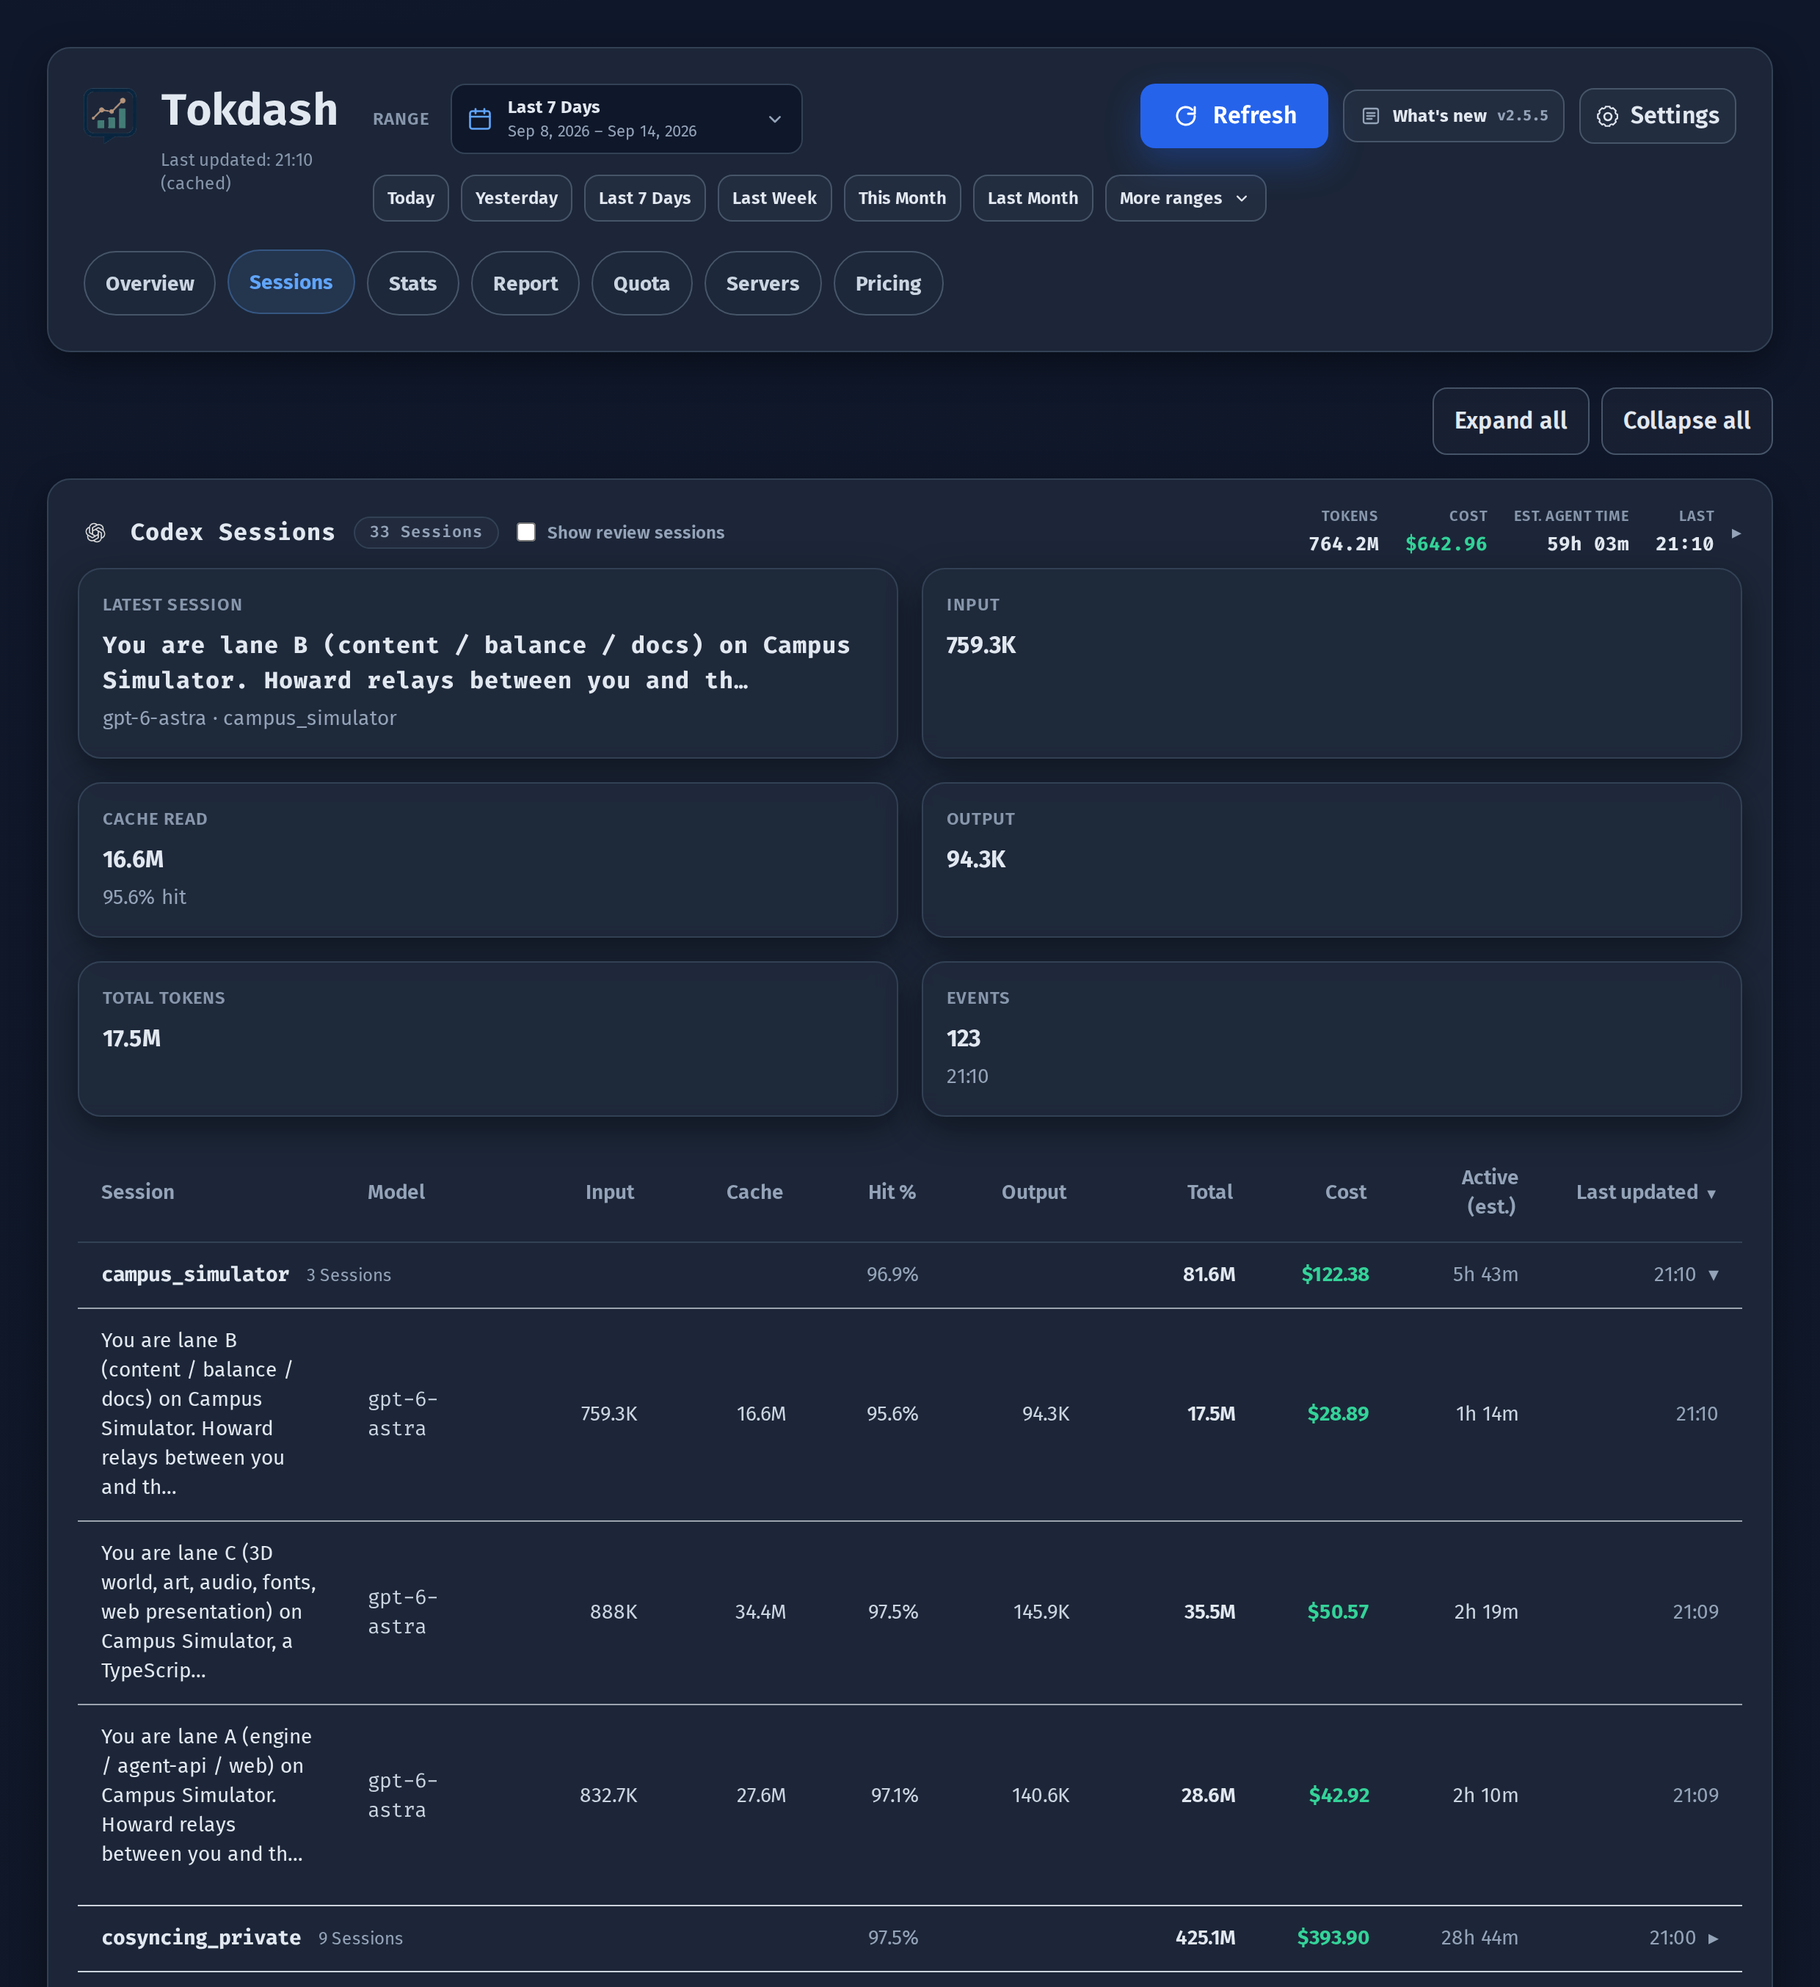
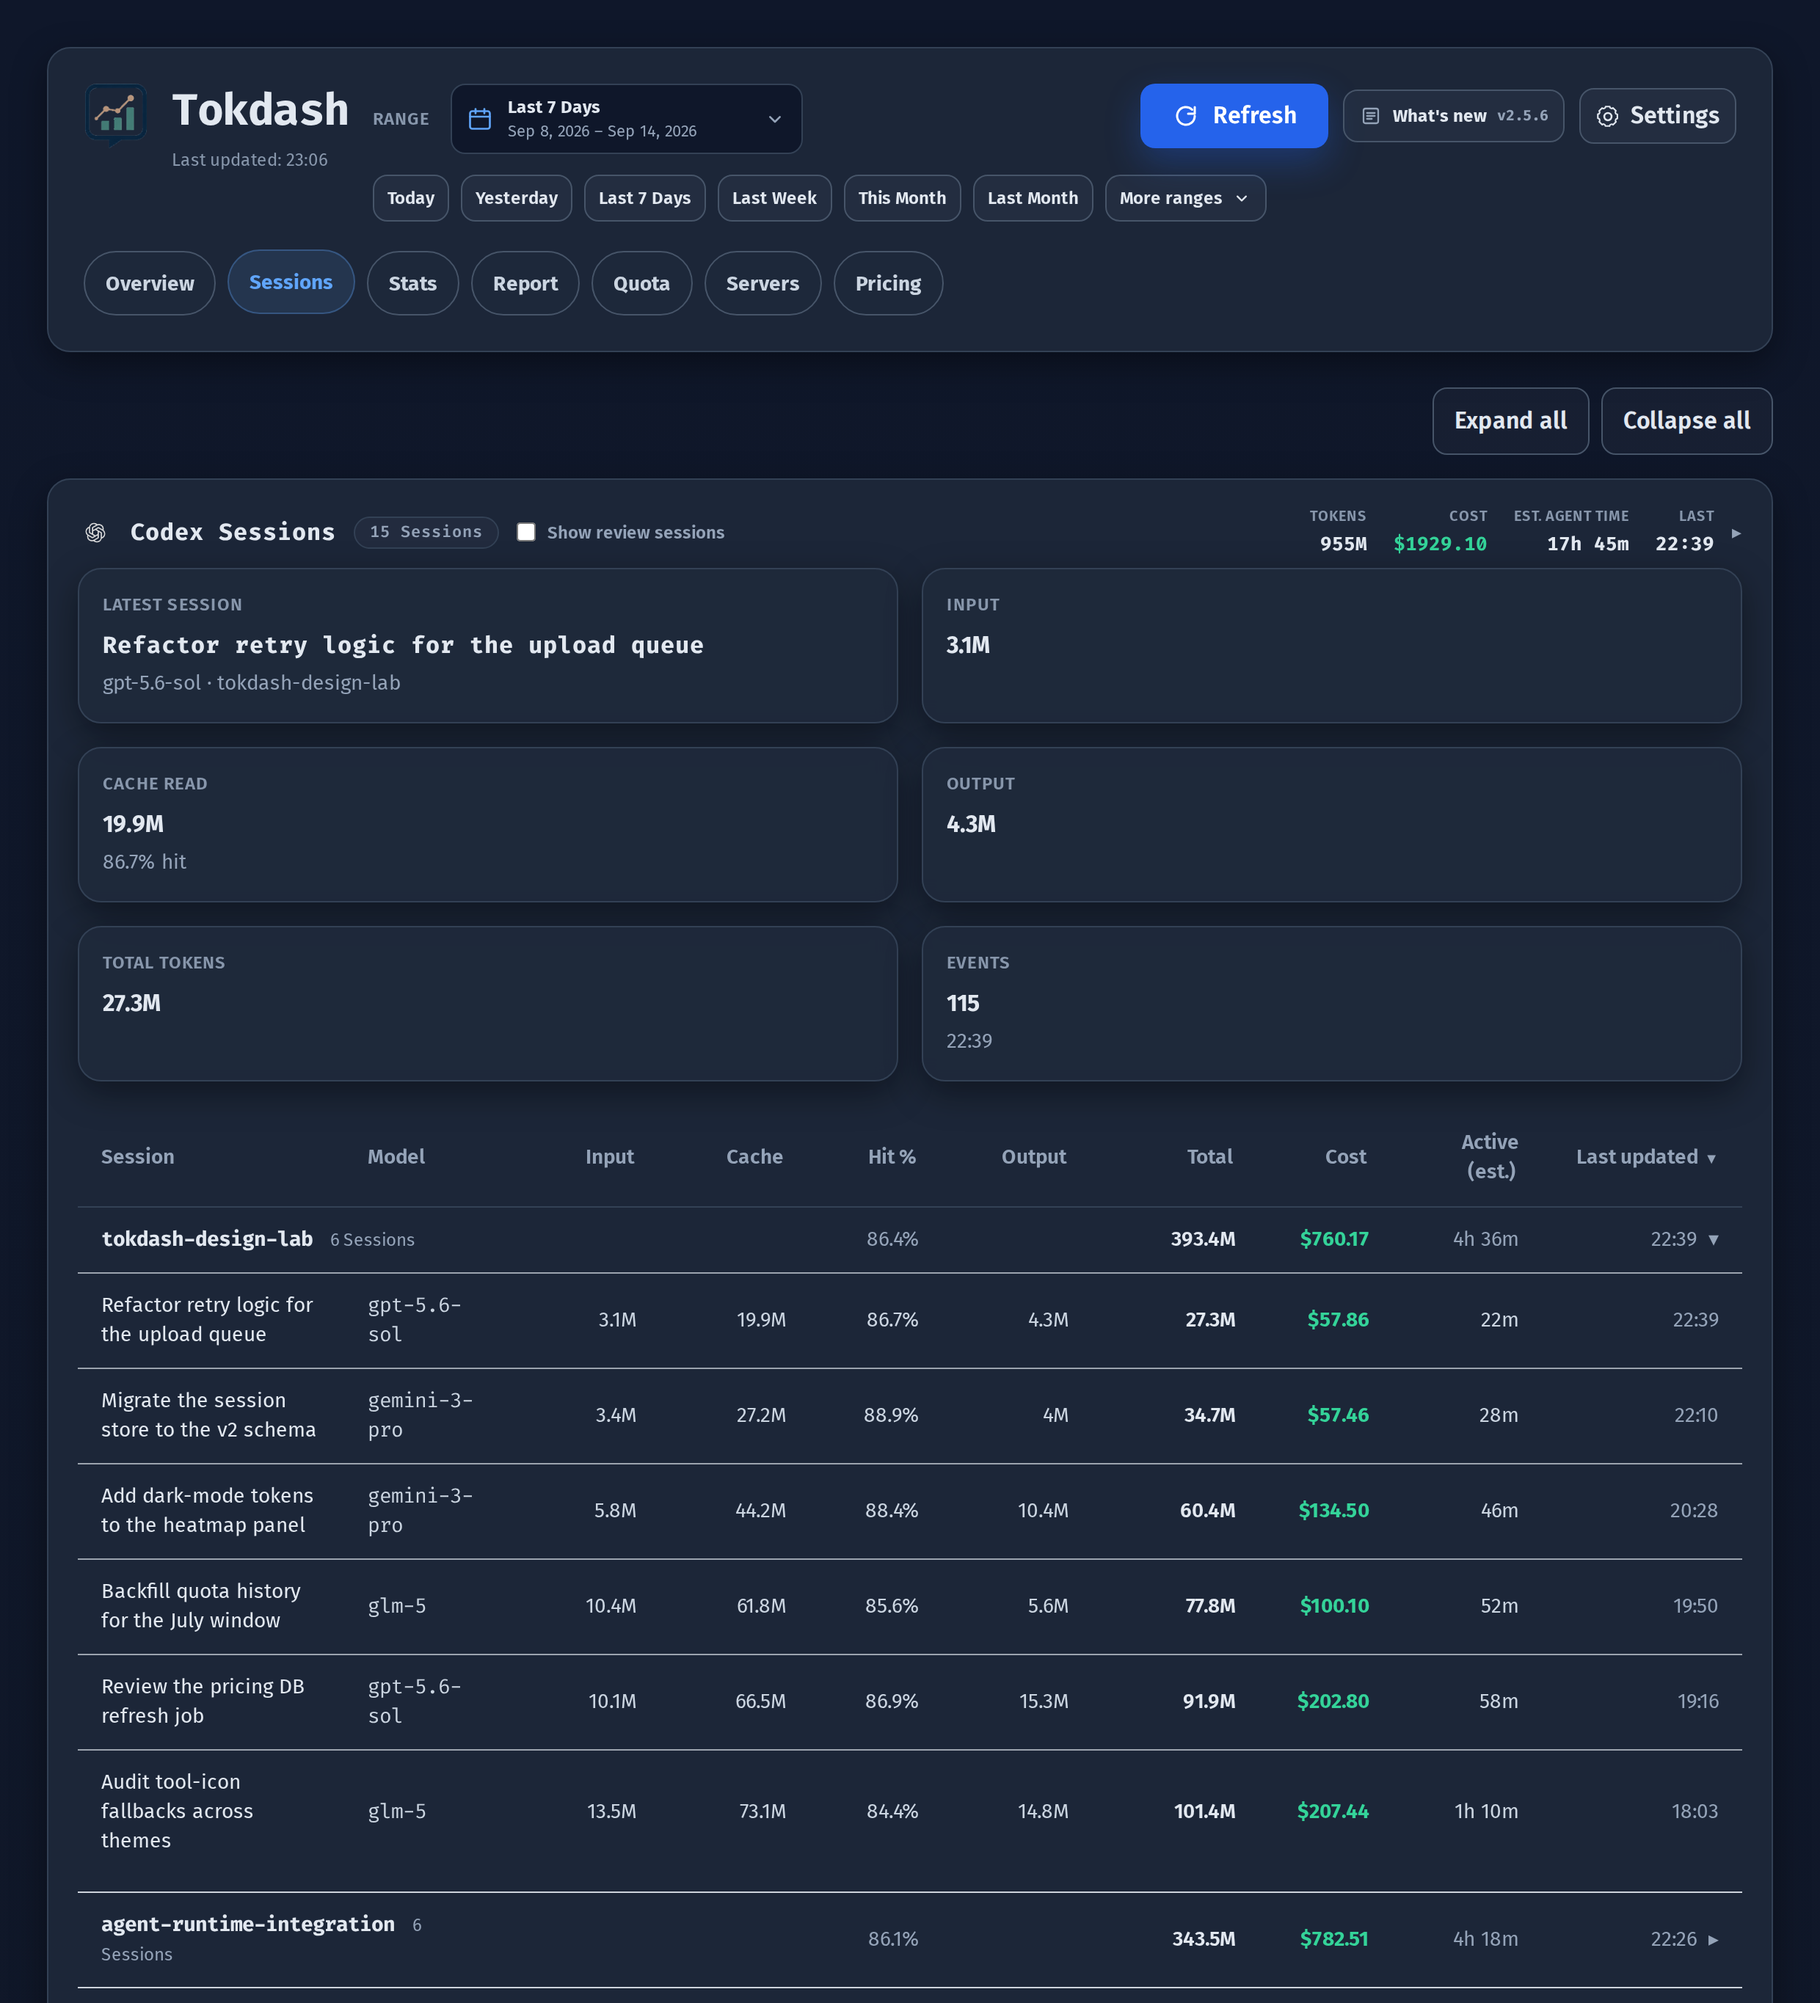
Add usage report screenshots, rework quota and sessions gallery shots, drop standalone Codex quota card

diff --git a/README_PT.md b/README_PT.md
@@ -157,20 +157,20 @@ Veja [Clientes suportados](docs/reference/SUPPORTED_CLIENTS.md) para caminhos de
   </a>
 </p>
 <p align="center">
+  <b>Relatório de uso</b><br />
+  <a href="https://tokdash.github.io/demo/">
+    <picture>
+      <source media="(prefers-color-scheme: dark)" srcset="https://raw.githubusercontent.com/JingbiaoMei/Tokdash/main/docs/assets/demo-report-en-dark.png" />
+      <img src="https://raw.githubusercontent.com/JingbiaoMei/Tokdash/main/docs/assets/demo-report-en-light.png" alt="Tokdash usage report - click for live demo" width="860" />
+    </picture>
+  </a>
+</p>
+<p align="center">
   <b>Acompanhamento de cota</b><br />
   <a href="https://tokdash.github.io/demo/">
     <picture>
       <source media="(prefers-color-scheme: dark)" srcset="https://raw.githubusercontent.com/JingbiaoMei/Tokdash/main/docs/assets/demo-quota-en-dark.png" />
       <img src="https://raw.githubusercontent.com/JingbiaoMei/Tokdash/main/docs/assets/demo-quota-en-light.png" alt="Tokdash quota tracking - click for live demo" width="860" />
-    </picture>
-  </a>
-</p>
-<p align="center">
-  <b>Cota do Codex e créditos de reset</b><br />
-  <a href="https://tokdash.github.io/demo/">
-    <picture>
-      <source media="(prefers-color-scheme: dark)" srcset="https://raw.githubusercontent.com/JingbiaoMei/Tokdash/main/docs/assets/demo-quota-codex-en-dark.png" />
-      <img src="https://raw.githubusercontent.com/JingbiaoMei/Tokdash/main/docs/assets/demo-quota-codex-en-light.png" alt="Tokdash Codex quota and reset credits - click for live demo" width="440" />
     </picture>
   </a>
 </p>

diff --git a/README_ES.md b/README_ES.md
@@ -157,20 +157,20 @@ Ver [Clientes compatibles](docs/reference/SUPPORTED_CLIENTS.md) para rutas de da
   </a>
 </p>
 <p align="center">
+  <b>Informe de uso</b><br />
+  <a href="https://tokdash.github.io/demo/">
+    <picture>
+      <source media="(prefers-color-scheme: dark)" srcset="https://raw.githubusercontent.com/JingbiaoMei/Tokdash/main/docs/assets/demo-report-en-dark.png" />
+      <img src="https://raw.githubusercontent.com/JingbiaoMei/Tokdash/main/docs/assets/demo-report-en-light.png" alt="Tokdash usage report - click for live demo" width="860" />
+    </picture>
+  </a>
+</p>
+<p align="center">
   <b>Seguimiento de cuota</b><br />
   <a href="https://tokdash.github.io/demo/">
     <picture>
       <source media="(prefers-color-scheme: dark)" srcset="https://raw.githubusercontent.com/JingbiaoMei/Tokdash/main/docs/assets/demo-quota-en-dark.png" />
       <img src="https://raw.githubusercontent.com/JingbiaoMei/Tokdash/main/docs/assets/demo-quota-en-light.png" alt="Tokdash quota tracking - click for live demo" width="860" />
-    </picture>
-  </a>
-</p>
-<p align="center">
-  <b>Cuota de Codex y créditos de reinicio</b><br />
-  <a href="https://tokdash.github.io/demo/">
-    <picture>
-      <source media="(prefers-color-scheme: dark)" srcset="https://raw.githubusercontent.com/JingbiaoMei/Tokdash/main/docs/assets/demo-quota-codex-en-dark.png" />
-      <img src="https://raw.githubusercontent.com/JingbiaoMei/Tokdash/main/docs/assets/demo-quota-codex-en-light.png" alt="Tokdash Codex quota and reset credits - click for live demo" width="440" />
     </picture>
   </a>
 </p>

diff --git a/README.md b/README.md
@@ -157,20 +157,20 @@ See [Supported clients](docs/reference/SUPPORTED_CLIENTS.md) for local data path
   </a>
 </p>
 <p align="center">
+  <b>Usage report</b><br />
+  <a href="https://tokdash.github.io/demo/">
+    <picture>
+      <source media="(prefers-color-scheme: dark)" srcset="https://raw.githubusercontent.com/JingbiaoMei/Tokdash/main/docs/assets/demo-report-en-dark.png" />
+      <img src="https://raw.githubusercontent.com/JingbiaoMei/Tokdash/main/docs/assets/demo-report-en-light.png" alt="Tokdash usage report - click for live demo" width="860" />
+    </picture>
+  </a>
+</p>
+<p align="center">
   <b>Quota tracking</b><br />
   <a href="https://tokdash.github.io/demo/">
     <picture>
       <source media="(prefers-color-scheme: dark)" srcset="https://raw.githubusercontent.com/JingbiaoMei/Tokdash/main/docs/assets/demo-quota-en-dark.png" />
       <img src="https://raw.githubusercontent.com/JingbiaoMei/Tokdash/main/docs/assets/demo-quota-en-light.png" alt="Tokdash quota tracking - click for live demo" width="860" />
-    </picture>
-  </a>
-</p>
-<p align="center">
-  <b>Codex quota and reset credits</b><br />
-  <a href="https://tokdash.github.io/demo/">
-    <picture>
-      <source media="(prefers-color-scheme: dark)" srcset="https://raw.githubusercontent.com/JingbiaoMei/Tokdash/main/docs/assets/demo-quota-codex-en-dark.png" />
-      <img src="https://raw.githubusercontent.com/JingbiaoMei/Tokdash/main/docs/assets/demo-quota-codex-en-light.png" alt="Tokdash Codex quota and reset credits - click for live demo" width="440" />
     </picture>
   </a>
 </p>

diff --git a/README_JA.md b/README_JA.md
@@ -157,20 +157,20 @@
   </a>
 </p>
 <p align="center">
+  <b>使用量レポート</b><br />
+  <a href="https://tokdash.github.io/demo/">
+    <picture>
+      <source media="(prefers-color-scheme: dark)" srcset="https://raw.githubusercontent.com/JingbiaoMei/Tokdash/main/docs/assets/demo-report-en-dark.png" />
+      <img src="https://raw.githubusercontent.com/JingbiaoMei/Tokdash/main/docs/assets/demo-report-en-light.png" alt="Tokdash usage report - click for live demo" width="860" />
+    </picture>
+  </a>
+</p>
+<p align="center">
   <b>クォータ追跡</b><br />
   <a href="https://tokdash.github.io/demo/">
     <picture>
       <source media="(prefers-color-scheme: dark)" srcset="https://raw.githubusercontent.com/JingbiaoMei/Tokdash/main/docs/assets/demo-quota-en-dark.png" />
       <img src="https://raw.githubusercontent.com/JingbiaoMei/Tokdash/main/docs/assets/demo-quota-en-light.png" alt="Tokdash quota tracking - click for live demo" width="860" />
-    </picture>
-  </a>
-</p>
-<p align="center">
-  <b>Codex クォータとリセットクレジット</b><br />
-  <a href="https://tokdash.github.io/demo/">
-    <picture>
-      <source media="(prefers-color-scheme: dark)" srcset="https://raw.githubusercontent.com/JingbiaoMei/Tokdash/main/docs/assets/demo-quota-codex-en-dark.png" />
-      <img src="https://raw.githubusercontent.com/JingbiaoMei/Tokdash/main/docs/assets/demo-quota-codex-en-light.png" alt="Tokdash Codex quota and reset credits - click for live demo" width="440" />
     </picture>
   </a>
 </p>

diff --git a/README_CN.md b/README_CN.md
@@ -156,20 +156,20 @@
   </a>
 </p>
 <p align="center">
+  <b>用量报告</b><br />
+  <a href="https://tokdash.github.io/demo/">
+    <picture>
+      <source media="(prefers-color-scheme: dark)" srcset="https://raw.githubusercontent.com/JingbiaoMei/Tokdash/main/docs/assets/demo-report-cn-dark.png" />
+      <img src="https://raw.githubusercontent.com/JingbiaoMei/Tokdash/main/docs/assets/demo-report-cn-light.png" alt="Tokdash 用量报告 — 点击体验在线 Demo" width="860" />
+    </picture>
+  </a>
+</p>
+<p align="center">
   <b>额度追踪</b><br />
   <a href="https://tokdash.github.io/demo/">
     <picture>
       <source media="(prefers-color-scheme: dark)" srcset="https://raw.githubusercontent.com/JingbiaoMei/Tokdash/main/docs/assets/demo-quota-cn-dark.png" />
       <img src="https://raw.githubusercontent.com/JingbiaoMei/Tokdash/main/docs/assets/demo-quota-cn-light.png" alt="Tokdash 额度追踪 — 点击体验在线 Demo" width="860" />
-    </picture>
-  </a>
-</p>
-<p align="center">
-  <b>Codex 额度与重置额度</b><br />
-  <a href="https://tokdash.github.io/demo/">
-    <picture>
-      <source media="(prefers-color-scheme: dark)" srcset="https://raw.githubusercontent.com/JingbiaoMei/Tokdash/main/docs/assets/demo-quota-codex-cn-dark.png" />
-      <img src="https://raw.githubusercontent.com/JingbiaoMei/Tokdash/main/docs/assets/demo-quota-codex-cn-light.png" alt="Tokdash Codex 额度与重置额度 — 点击体验在线 Demo" width="440" />
     </picture>
   </a>
 </p>

diff --git a/README_KO.md b/README_KO.md
@@ -157,20 +157,20 @@
   </a>
 </p>
 <p align="center">
+  <b>사용 리포트</b><br />
+  <a href="https://tokdash.github.io/demo/">
+    <picture>
+      <source media="(prefers-color-scheme: dark)" srcset="https://raw.githubusercontent.com/JingbiaoMei/Tokdash/main/docs/assets/demo-report-en-dark.png" />
+      <img src="https://raw.githubusercontent.com/JingbiaoMei/Tokdash/main/docs/assets/demo-report-en-light.png" alt="Tokdash usage report - click for live demo" width="860" />
+    </picture>
+  </a>
+</p>
+<p align="center">
   <b>쿼터 추적</b><br />
   <a href="https://tokdash.github.io/demo/">
     <picture>
       <source media="(prefers-color-scheme: dark)" srcset="https://raw.githubusercontent.com/JingbiaoMei/Tokdash/main/docs/assets/demo-quota-en-dark.png" />
       <img src="https://raw.githubusercontent.com/JingbiaoMei/Tokdash/main/docs/assets/demo-quota-en-light.png" alt="Tokdash quota tracking - click for live demo" width="860" />
-    </picture>
-  </a>
-</p>
-<p align="center">
-  <b>Codex 쿼터와 리셋 크레딧</b><br />
-  <a href="https://tokdash.github.io/demo/">
-    <picture>
-      <source media="(prefers-color-scheme: dark)" srcset="https://raw.githubusercontent.com/JingbiaoMei/Tokdash/main/docs/assets/demo-quota-codex-en-dark.png" />
-      <img src="https://raw.githubusercontent.com/JingbiaoMei/Tokdash/main/docs/assets/demo-quota-codex-en-light.png" alt="Tokdash Codex quota and reset credits - click for live demo" width="440" />
     </picture>
   </a>
 </p>
